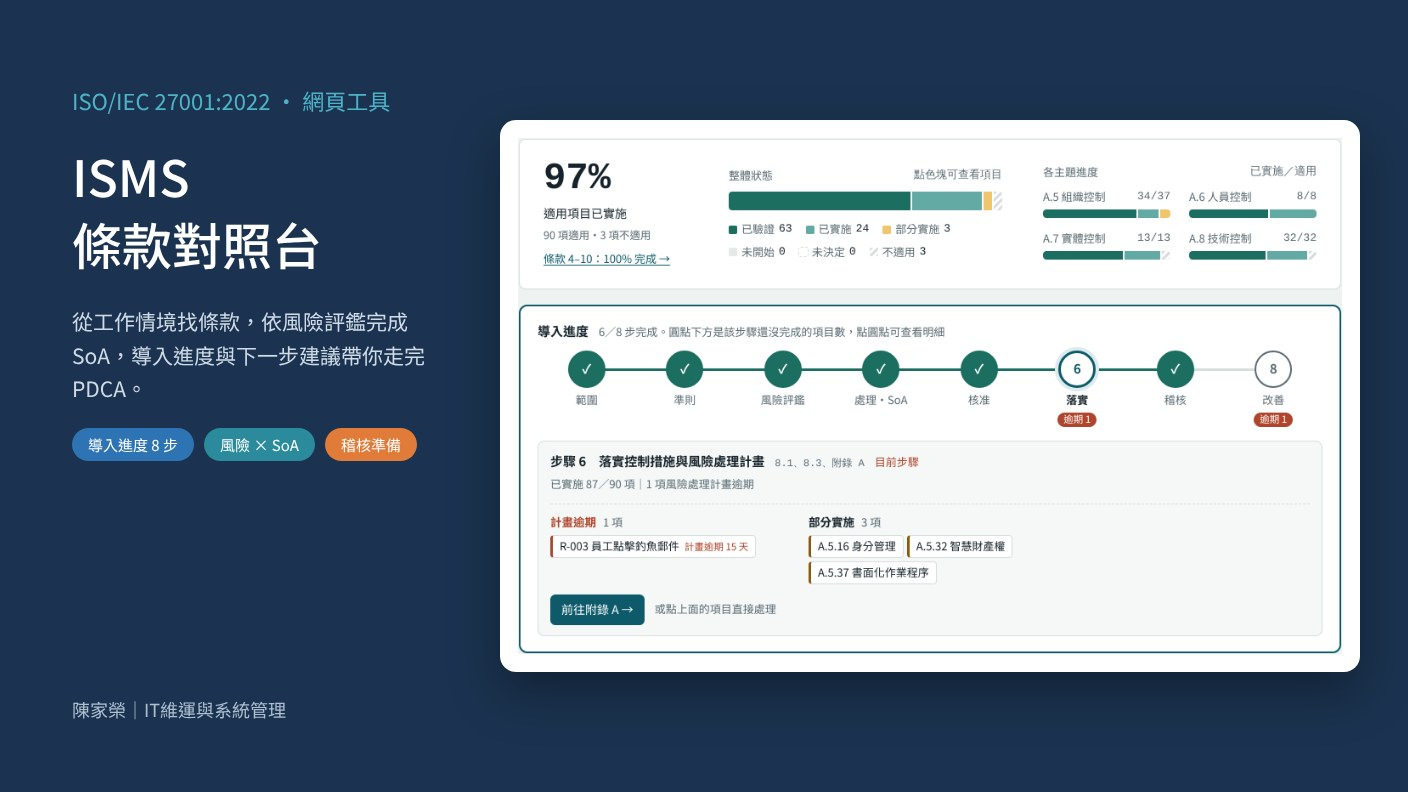
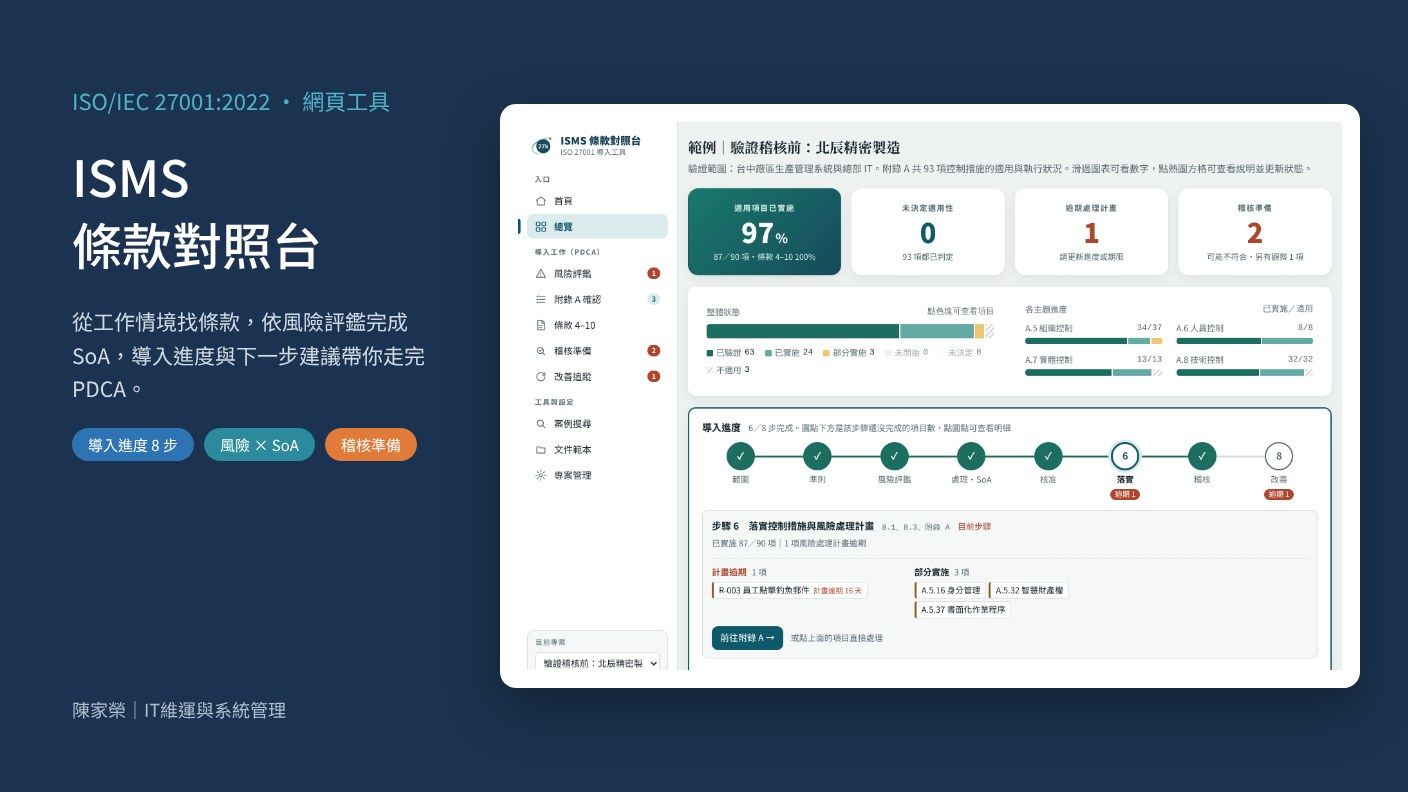
更新 ISMS 條款對照台介紹：新版面封面、功能說明與指南連結 1.39.3
Claude-Session: https://claude.ai/code/session_01EDnij5MaTqGMDcNPJTi26P

Changed region(s): [[0.3438, 0.1212, 0.9688, 0.8788], [0.8438, 0.5455, 0.875, 0.6061]]

diff --git a/index.html b/index.html
@@ -75,14 +75,14 @@ footer{font-size:13px;color:var(--muted);padding-block:0 40px}
   </article>
 
   <article class="work" id="mapper">
-    <figure><img src="img/mapper-cover.jpg?v=20261030" alt="ISMS 條款對照台：導入進度與下一步建議畫面"></figure>
+    <figure><img src="img/mapper-cover.jpg?v=20261031" alt="ISMS 條款對照台：導入進度與下一步建議畫面"></figure>
     <div class="t">
       <span class="n">03 · 通用工具</span>
       <h2>ISMS 條款對照台</h2>
       <p class="tagline">從工作情境到 SoA 的 ISO 27001 導入工具</p>
       <p>導入 ISMS 最卡的往往不是看不懂條款，而是不知道手上的工作和條款有什麼關係。這個工具讓 IT 人員用日常說法（「同事離職」「廠商要遠端維護」）找到對應的控制措施，再一路帶到風險評鑑、適用性聲明（SoA）與每年的管理審查，把分散在各個 Excel 的工作，變成一個會提醒下一步的專案。</p>
-      <ul><li>用日常說法查條款：內建 108 個實務情境與同義詞，輸入「帳號沒關」「被駭了」也查得到，也能加入公司自訂的情境</li><li>依 ISO/IEC 27005 流程評估風險，結果直接連動 SoA，並檢查評鑑是否合理，例如發生過事件卻把可能性評得很低</li><li>總覽一個畫面看整體狀況與 8 步導入進度，每一步標出還缺幾項，點了就能處理；下一步建議依急迫程度排序，第一次導入照著做就能完成</li><li>稽核準備：用驗證稽核兩個階段的角度檢查同一份資料，追蹤鏈標出證據斷在哪一步，並可從人員或系統反向查詢、模擬抽查證據</li><li>改善追蹤與年度比較讓 PDCA 形成閉環，並整理出管理審查（9.3）需要的資料</li><li>一鍵匯出可直接送審的 SoA，也能匯入既有的 SoA 與風險評鑑 Excel</li><li>附 32 份 ISMS 文件範本，並依專案說明每份文件的建立依據，只準備真正需要的文件</li><li>內建 9 個產業的建議重點與台灣法規提示（個資法、資安法、上市櫃資通安全管控指引、環境檢驗測定機構管理辦法等），並納入 Amd 1:2024 氣候變遷增修</li><li>資料只存在使用者的瀏覽器，並以 CSP 限制對外連線；159 項單元測試與畫面冒煙測試由 GitHub Actions 自動執行</li><li>需求、ISMS 內容與功能設計由本人負責，程式以 AI 協作撰寫</li></ul>
-      <div class="links"><a class="p" href="https://coloplay1.github.io/isms-mapper/" target="_blank" rel="noopener">開啟 Demo</a><a href="https://github.com/coloplay1/isms-mapper" target="_blank" rel="noopener">GitHub 原始碼</a><a href="https://coloplay1.github.io/isms-mapper/docs/user-guide.pdf?v=1.36.4" target="_blank" rel="noopener">使用指南 PDF</a></div>
+      <ul><li>用日常說法查條款：內建 108 個實務情境與同義詞，輸入「帳號沒關」「被駭了」也查得到，也能加入公司自訂的情境</li><li>依 ISO/IEC 27005 流程評估風險，結果直接連動 SoA，並檢查評鑑是否合理，例如發生過事件卻把可能性評得很低</li><li>總覽四張數字卡直接回答「做到哪、還缺什麼」，8 步導入進度標出每一步還缺幾項；左側選單隨時顯示逾期與待處理數字，第一次導入照著下一步建議做就能完成</li><li>稽核準備：用驗證稽核兩個階段的角度檢查同一份資料，追蹤鏈標出證據斷在哪一步，可反向查詢、模擬抽查證據，並列印送審確認單簽核留存</li><li>改善追蹤與年度比較讓 PDCA 形成閉環，並整理出管理審查（9.3）需要的資料</li><li>一鍵匯出可直接送審的 SoA，也能匯入既有的 SoA 與風險評鑑 Excel</li><li>附 32 份 ISMS 文件範本，並依專案說明每份文件的建立依據，只準備真正需要的文件</li><li>內建 9 個產業的建議重點與台灣法規提示（個資法、資安法、上市櫃資通安全管控指引、環境檢驗測定機構管理辦法等），並納入 Amd 1:2024 氣候變遷增修</li><li>資料只存在使用者的瀏覽器，並以 CSP 限制對外連線；167 項單元測試與畫面冒煙測試由 GitHub Actions 自動執行</li><li>需求、ISMS 內容與功能設計由本人負責，程式以 AI 協作撰寫</li></ul>
+      <div class="links"><a class="p" href="https://coloplay1.github.io/isms-mapper/" target="_blank" rel="noopener">開啟 Demo</a><a href="https://github.com/coloplay1/isms-mapper" target="_blank" rel="noopener">GitHub 原始碼</a><a href="https://coloplay1.github.io/isms-mapper/docs/user-guide.pdf?v=1.39.3" target="_blank" rel="noopener">使用指南 PDF</a></div>
     </div>
   </article>
 </main>

diff --git a/README.md b/README.md
@@ -11,7 +11,7 @@
 | 多系統帳號、權限與資產關聯管理系統 | 以 Ragic 建立十張關聯表單，整合 AD、NAS、郵件帳號與群組、資料夾授權，人員異動時可追查所有權限 | [網頁版](https://coloplay1.github.io/portfolio/works/ragic.html)・[PDF](ragic-account-system.pdf) |
 | ISMS 與帳號權限管理整合實例 | 依 ISO/IEC 27001:2022 管理觀念，把權限申請、複審與覆核落到表單欄位與紀錄 | [網頁版](https://coloplay1.github.io/portfolio/works/isms.html)・[PDF](isms-account-integration.pdf) |
 | 系統維護作業手冊 | 帳號清冊更新的標準作業流程與指令說明 | [網頁版](https://coloplay1.github.io/portfolio/works/ops.html)・[PDF](ops-maintenance-manual.pdf) |
-| ISMS 條款對照台 | ISO 27001 導入輔助網頁工具：情境搜尋、風險評鑑與 SoA 連動、稽核準備、Excel 匯出，含 159 項單元測試與畫面冒煙測試 | [Demo](https://coloplay1.github.io/isms-mapper/)・[原始碼](https://github.com/coloplay1/isms-mapper) |
+| ISMS 條款對照台 | ISO 27001 導入輔助網頁工具：情境搜尋、風險評鑑與 SoA 連動、稽核準備、Excel 匯出，含 167 項單元測試與畫面冒煙測試 | [Demo](https://coloplay1.github.io/isms-mapper/)・[原始碼](https://github.com/coloplay1/isms-mapper) |
 
 ## 說明
 
